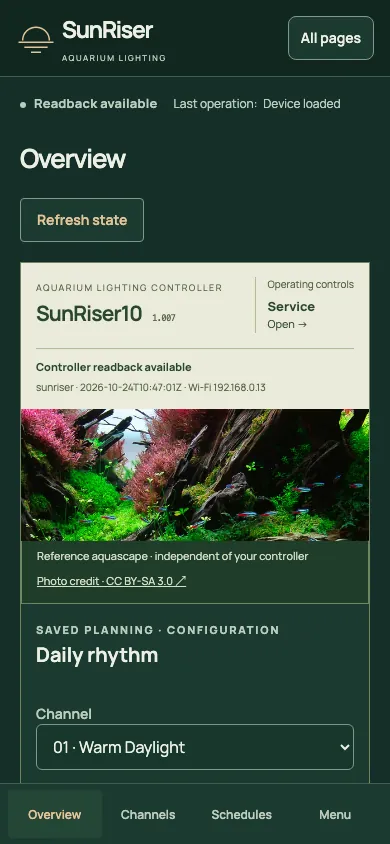
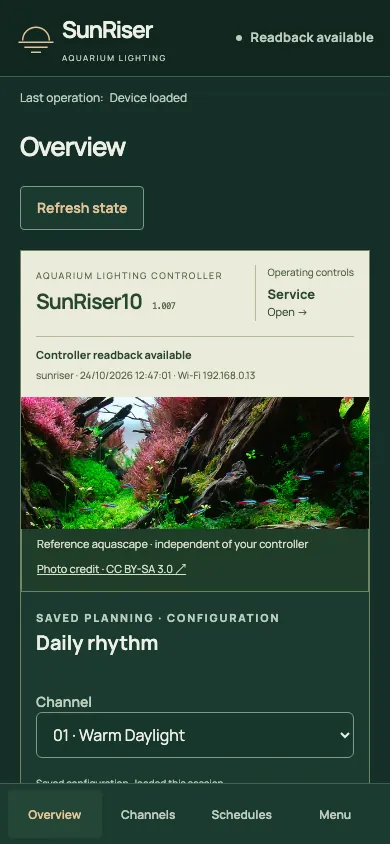
Refresh README and screenshots for colour themes

diff --git a/README.md b/README.md
@@ -6,9 +6,9 @@ no separate backend, cloud account or remote assets are required by the frontend
 
 [![Living Aquascape Overview with reference photograph, saved Daily Rhythm and reported channel outputs](docs/screenshots/overview-desktop-en.webp)](docs/screenshots/overview-desktop-en.webp)
 
-*Current application with SR10 readback (firmware 1.007), captured on 23 October
-2026. The photograph is a reference aquascape, not a live view; the saved lighting
-rhythm is separate from reported output.*
+*Current application rendered from read-only SR10 readback (firmware 1.007, read on
+24 October 2026), captured on 9 November 2026. The photograph is a reference aquascape,
+not a live view; the saved lighting rhythm is separate from reported output.*
 
 ## Features
 
@@ -24,6 +24,15 @@ rhythm is separate from reported output.*
 English is the default; switching languages preserves drafts and sends no device
 requests. Fonts, translations and photography are bundled locally.
 
+**Colour themes:** Living Aquascape (default), Coral reef, Deep green and African sun.
+Choose one from the swatch menu beside **EN / DE** (in the Device menu on narrower
+screens and in the Menu on phones). The choice is remembered in the browser and sends
+no device requests; each theme downloads only its own reference photograph.
+
+<a href="docs/screenshots/overview-desktop-reef.webp"><img src="docs/screenshots/overview-desktop-reef.webp" width="260" alt="Coral reef theme Overview"></a>
+<a href="docs/screenshots/overview-desktop-planted.webp"><img src="docs/screenshots/overview-desktop-planted.webp" width="260" alt="Deep green theme Overview"></a>
+<a href="docs/screenshots/overview-desktop-sun.webp"><img src="docs/screenshots/overview-desktop-sun.webp" width="260" alt="African sun theme Overview"></a>
+
 One consistent startup panel explains layout/font loading, interface setup and
 controller reads. Help, Diagnostics, Recovery and Lighting tools download on
 first visit and remain mounted afterwards, retaining drafts across navigation.
@@ -32,8 +41,8 @@ The Help summary is read explicitly and warns when a verified save makes it old.
 <a href="docs/screenshots/overview-mobile-en.webp"><img src="docs/screenshots/overview-mobile-en.webp" width="250" alt="Mobile Overview with reference aquascape and Daily Rhythm"></a>
 <a href="docs/screenshots/schedules-mobile-de.webp"><img src="docs/screenshots/schedules-mobile-de.webp" width="250" alt="German mobile schedule curve and point editor"></a>
 
-[More screenshots](docs/screenshots/README.md): Channels, desktop/mobile Schedules,
-Weather, Sensors and German Overview. Select any image for its full resolution.
+[More screenshots](docs/screenshots/README.md): colour themes, Channels, desktop/mobile
+Schedules, Weather, Sensors and German Overview. Select any image for its full resolution.
 
 ## Compatibility and safety
 
@@ -61,16 +70,27 @@ Wi-Fi access-point scanning is unsupported.
 
 ## Build and installation
 
-Requires **Node.js 22.12+** and **Python 3.10+**.
-Download the original [vendor v1.007 NEW.BEE](http://sunriser.ledaquaristik.de/NEW.BEE)
-to the repository root as `NEW.BEE`. Firmware binaries are not tracked here.
-The build verifies this exact SHA-256 and rejects other input:
+Requires **Node.js 22.12+** and **Python 3.10+**. One command downloads and verifies the
+inputs this repository does not store, then builds and tests:
+
+```sh
+npm run setup
+```
+
+It fetches the original [vendor v1.007 NEW.BEE](http://sunriser.ledaquaristik.de/NEW.BEE)
+to the repository root and the two Pexels theme photographs (see Credits); each download
+must match its recorded SHA-256 or nothing is kept. The photographs are re-encoded locally
+with the reference Pillow version in `.venv-photos`. Firmware binaries and these photographs
+are not tracked here. The build verifies this exact vendor SHA-256 and rejects other input:
 
 ```text
[1 lines of base64/hex data omitted]
 ```
 
+Step by step instead:
+
 ```sh
+npm run fetch          # vendor NEW.BEE and theme photographs, verified
 npm ci --ignore-scripts
 npm run check
 npm run build
@@ -80,7 +100,7 @@ npm test
 Outputs: `dist/` contains the static site; `build/NEW.BEE` is the installable
 package. `build/SHA256SUMS` and `build/package.json` record its checksum/provenance.
 All **51 non-website vendor records** are retained byte for byte. `npm run verify`
-independently checks them and the packaged website. Builds never download or deploy.
+independently checks them and the packaged website. `npm run build` never downloads or deploys.
 
 **Installation is a firmware update, not a website-only upload:** the package
 contains original **v1.007 C applications**. Confirm the
@@ -129,3 +149,16 @@ Aquascape: *Positive nihilism-2, 2021 IIAC R.25, RFLAC R.14* by **조재선**,
 resized and format-converted photograph, including its appearance in screenshots.
 Adaptations retain CC BY-SA 3.0; keep the credits when redistributing. No endorsement
 is implied.
+
+Colour-theme photographs: Deep green uses *2021 IAPLC Time* by **조재선**,
+[original source](https://commons.wikimedia.org/wiki/File:2021_IAPLC_Time.jpg),
+[CC BY-SA 3.0](https://creativecommons.org/licenses/by-sa/3.0/), under the same terms as above.
+Coral reef uses *Vibrant Underwater Coral Close-up Image* by **Жанна Алимкулова** and
+African sun *A group of fish swimming in an aquarium* by **Santiago Sauceda González**, via
+[Pexels](https://www.pexels.com/) under the [Pexels Licence](https://www.pexels.com/license/)
+([archived terms](assets/photo/themes/PEXELS-LICENSE.txt)). These two are bundled only as the
+Overview backdrop: they are not licensed under the GPL or Creative Commons, and the licence
+does not allow redistributing them as standalone images. This repository does not store them;
+`npm run setup` (or `npm run fetch`) downloads them from Pexels. Credits and modifications:
+[reef](assets/photo/themes/reef/ATTRIBUTION.txt), [planted](assets/photo/themes/planted/ATTRIBUTION.txt),
+[sun](assets/photo/themes/sun/ATTRIBUTION.txt).

diff --git a/docs/screenshots/README.md b/docs/screenshots/README.md
@@ -1,16 +1,17 @@
 # Application screenshots
 
-Actual captures of the current Living Aquascape application (`c4759bf`), made on
-23 October 2026 with Chromium 156. Metadata, state and selected saved settings
-were read from `http://192.168.0.13`, which reported **SunRiser10, firmware 1.007**.
-The photograph is a reference aquascape, not a live view.
+Actual captures of the current Living Aquascape application with colour themes (source
+`8ddb57c`), rendered on 9 November 2026 with Chromium 156. Metadata, state and selected
+saved settings were read from `http://192.168.0.13` on 24 October 2026 (10:46–10:48 UTC),
+which reported **SunRiser10, firmware 1.007**. The photographs are reference aquariums,
+not live views.
 
 Controller reads were serialized with at least five seconds between requests.
-No configuration changes or output commands were sent. The application was
-served locally and read responses were cached; German and mobile captures reused
-the cache without further controller requests. State readback is fixed at
-**12:07:56 UTC**
-(14:07:56 device-local time); saved settings were read separately afterward.
+No configuration changes or output commands were sent. The application was served
+locally from recorded read responses; these captures made **no controller requests**.
+The current interface groups some saved-setting reads differently, so five read
+responses were assembled from values recorded in separate reads of the same session;
+no value was invented. State readback is fixed at **12:47:01 device-local time**.
 These are locally rendered views of captured readback, not a live monitoring
 session or physical-output validation.
 
@@ -23,6 +24,9 @@ images small without adding runtime assets to the application.
 | --- | --- | --- |
 | Overview · desktop | [View](overview-desktop-en.webp) | [Ansehen](overview-desktop-de.webp) |
 | Overview · mobile | [View](overview-mobile-en.webp) | — |
+| Overview · Coral reef theme | [View](overview-desktop-reef.webp) | — |
+| Overview · Deep green theme | [View](overview-desktop-planted.webp) | — |
+| Overview · African sun theme | [View](overview-desktop-sun.webp) · [mobile](overview-mobile-sun.webp) | — |
 | Channels · desktop | [View](channels-desktop-en.webp) | — |
 | Schedules · desktop | [View](schedules-desktop-en.webp) | — |
 | Schedules · mobile | [View](schedules-mobile-en.webp) | [Ansehen](schedules-mobile-de.webp) |
@@ -31,7 +35,7 @@ images small without adding runtime assets to the application.
 
 ## Photograph credit
 
-The Overview screenshots include *Positive nihilism-2, 2021 IIAC R.25, RFLAC R.14*
+The default-theme Overview screenshots include *Positive nihilism-2, 2021 IIAC R.25, RFLAC R.14*
 by **조재선 (Kaquascape)**, from
 [Wikimedia Commons](https://commons.wikimedia.org/wiki/File:Positive_nihilism-2,_2021_IIAC_R.25,_RFLAC_R.14.jpg),
 licensed **[CC BY-SA 3.0 Unported](https://creativecommons.org/licenses/by-sa/3.0/)**.
@@ -39,6 +43,20 @@ The image has been cropped, resized and format-converted for the application, th
 captured and compressed within these screenshots. No endorsement is implied.
 Photographic adaptations remain under CC BY-SA 3.0; preserve this attribution,
 licence and modification notice when redistributing them.
+
+The Deep green theme screenshot includes *2021 IAPLC Time* by **조재선 (Kaquascape)**, from
+[Wikimedia Commons](https://commons.wikimedia.org/wiki/File:2021_IAPLC_Time.jpg), licensed
+**[CC BY-SA 3.0 Unported](https://creativecommons.org/licenses/by-sa/3.0/)** and adapted in
+the same way; the same attribution and ShareAlike terms apply
+([attribution](../../assets/photo/themes/planted/ATTRIBUTION.txt)).
+
+The Coral reef theme screenshot includes *Vibrant Underwater Coral Close-up Image* by
+**Жанна Алимкулова** and the African sun screenshots *A group of fish swimming in an
+aquarium* by **Santiago Sauceda González**, both via Pexels under the
+[Pexels Licence](https://www.pexels.com/license/) ([archived terms](../../assets/photo/themes/PEXELS-LICENSE.txt);
+[reef](../../assets/photo/themes/reef/ATTRIBUTION.txt), [sun](../../assets/photo/themes/sun/ATTRIBUTION.txt)).
+They appear here only as part of the interface; they are not licensed under the GPL or
+Creative Commons and are not offered for reuse on their own.
 
 [Full photographic attribution](../../assets/photo/ATTRIBUTION.txt) ·
 [Licence text](../../assets/photo/CC-BY-SA-3.0.txt) ·
